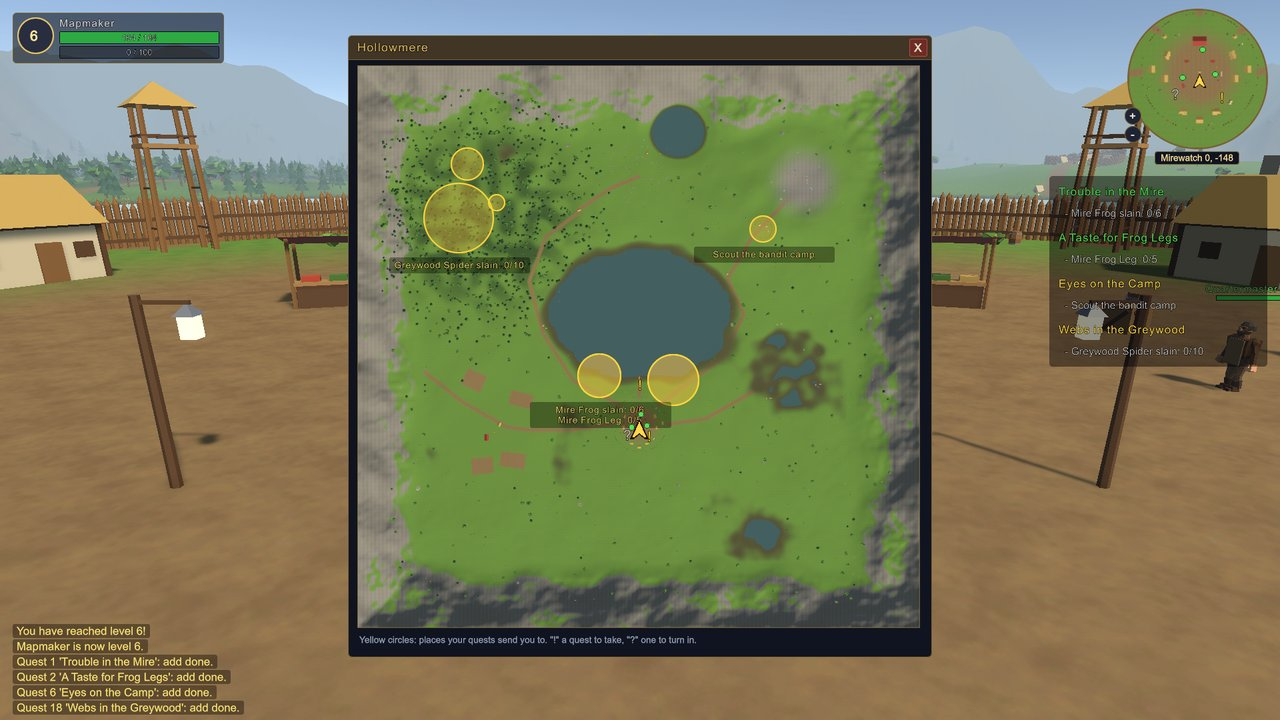
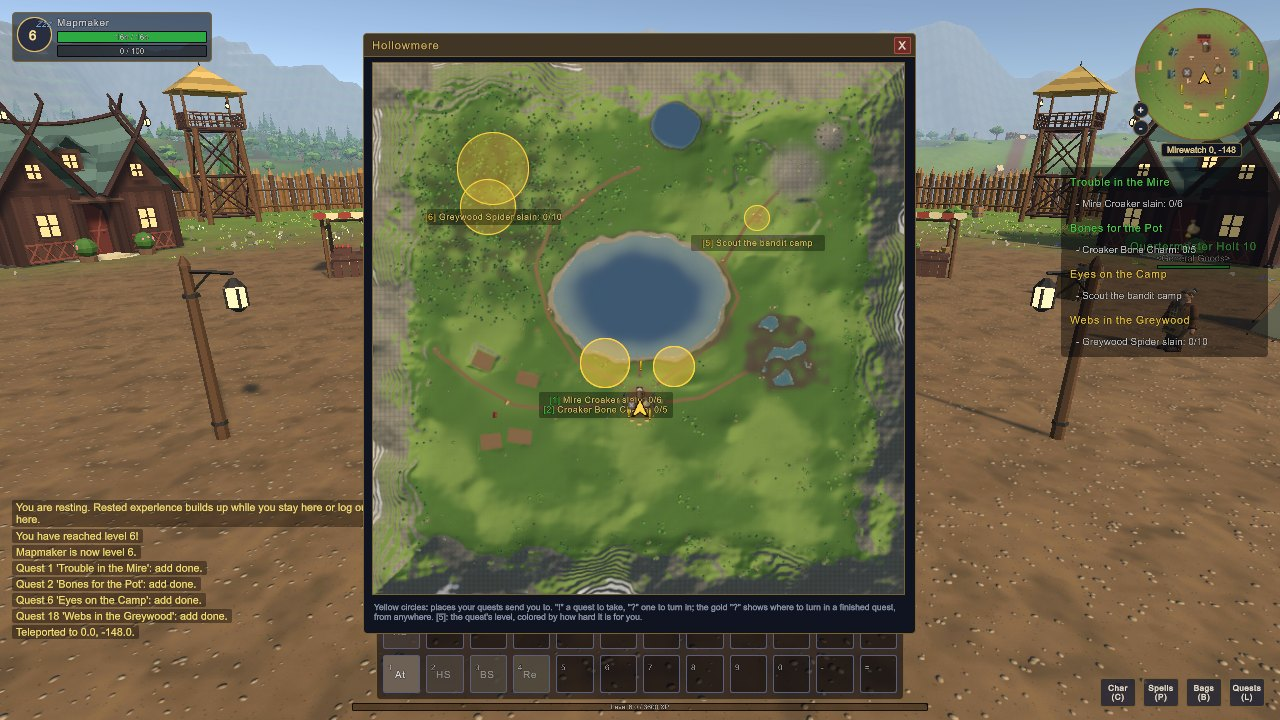
README: retake the pictures that still showed the old frogs
The spiders, Shard Nova and both quest maps showed frogs, the frog leg quest or
the flat ground from before the land work. Taken again in the current game, on
a separate in-memory realm.

diff --git a/README.md b/README.md
@@ -150,7 +150,7 @@ Everything for the first real zone is in; what is left is putting a realm online
     <td><sub><b>The Muddy Boot.</b> The inn on Mirewatch's square: red shingles, dormers, lanterns on its horned gables, a porch and a sign with a boot. The cottages are half-timbered under thatch.</sub></td>
   </tr>
   <tr>
-    <td><img src="docs/images/phase5-spells.jpg" alt="A shardmage on the shore of the mere casting Shard Nova: a wave of frost runs out over the grass and ice crystals break out of the ground around her"></td>
+    <td><img src="docs/images/phase5-spells.jpg" alt="A shardmage in a violet coat casting Shard Nova on the shore of the mere, arms spread: ice crystals break out of the grass all around, Mire Croakers on the beach and in the shallows, mountains behind"></td>
     <td><img src="docs/images/phase5-cindercut.jpg" alt="The Cinder Cut: a bowl of grey rock with glowing slag pools lying along its slope, slag heaps with veins of fire, shard crystals and a giant horned skull half sunk in the ground; Ruukhar waits in the middle with his cleaver"></td>
   </tr>
   <tr>
@@ -167,7 +167,7 @@ Everything for the first real zone is in; what is left is putting a realm online
   </tr>
   <tr>
     <td><img src="docs/images/phase5-swamp.jpg" alt="The south shore of the mere: hooded Mire Croakers scattered along the beach and a warrior in a meadow of grass and blue flowers, the lake, a palisade on a far hill and mountains behind"></td>
-    <td><img src="docs/images/phase5-spider.jpg" alt="Two Greywood spiders up close: jointed legs banded pale at the joints, bristly round abdomens, glowing eyes, frogs and reeds behind them"></td>
+    <td><img src="docs/images/phase5-spider.jpg" alt="Greywood spiders with jointed legs and bristly round abdomens beside a warrior on a grassy knoll, tall tiered pines and copses behind them and a mountain stepped into ledges"></td>
   </tr>
   <tr>
     <td><sub><b>The shore.</b> The Mire Croakers, a frog-folk in hoods and rags hung with bones, keep to the mere's south shore. They leave you alone until you poke them, and then they are twice as mean.</sub></td>
